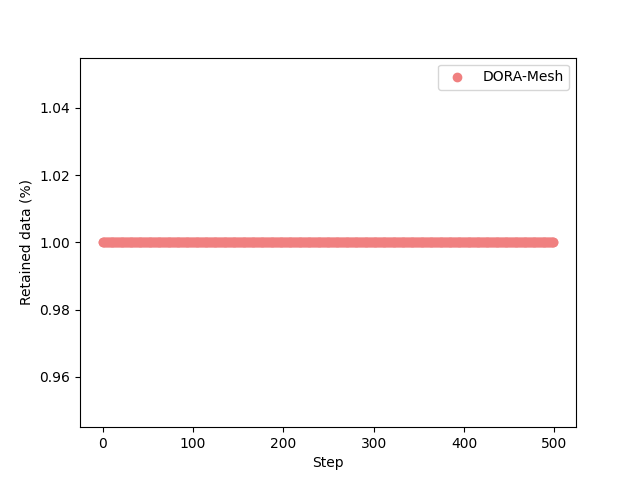
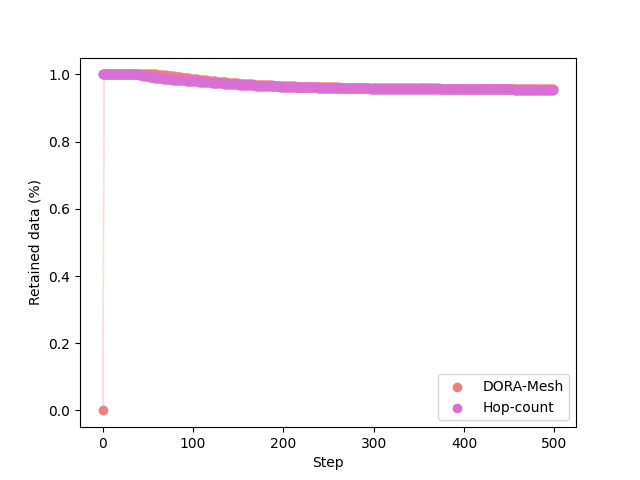
Test hop-count

diff --git a/src/benchmarking/concat_results.py b/src/benchmarking/concat_results.py
@@ -4,7 +4,7 @@ import csv
 FOLDER_RESULTS_DORA_MESH = "../results/dora_mesh"
 FOLDER_RESULTS_HOP_COUNT = "../results/hop_count"
 FOLDER_RESULTS_STIGMERGY = "../results/stigmergy"
-ROBOT_IDS = [0, 1, 2, 3, 4]
+ROBOT_IDS = range(15)
 METRIC = ["storage", "reliability"]
 
 def aggregate_results(folder, metric) -> dict:
@@ -30,7 +30,7 @@ def store_stepwise_results(file_reader, stepwise_results: dict) -> None:
 
 
 def main():
-    for folder in [FOLDER_RESULTS_DORA_MESH, FOLDER_RESULTS_HOP_COUNT, FOLDER_RESULTS_STIGMERGY]:
+    for folder in [FOLDER_RESULTS_DORA_MESH, FOLDER_RESULTS_HOP_COUNT]:
         for metric in METRIC:
             stepwise_results = aggregate_results(folder, metric)
 

diff --git a/src/benchmarking/plot_results.py b/src/benchmarking/plot_results.py
@@ -6,14 +6,13 @@ matplotlib.use('Agg')
 
 
 figures_folder = "figures/"
-#folders = ["../results/dora_mesh", "../results/hop_count", "../results/stigmergy"]
-folders = ["../results/dora_mesh"]
+folders = ["../results/dora_mesh", "../results/hop_count"]
 MAX_NB_STEPS = 500
 METRIC = ["storage", "reliability", "speed"]
 
 
 def find_nb_run() -> int:
-    with open("../results/dora_mesh/concatenated_storage.csv", "r") as f1:
+    with open("../results/hop_count/concatenated_storage.csv", "r") as f1:
         last_line = f1.readlines()[-1]
 
     return int(last_line.split(",")[1]) + 1
